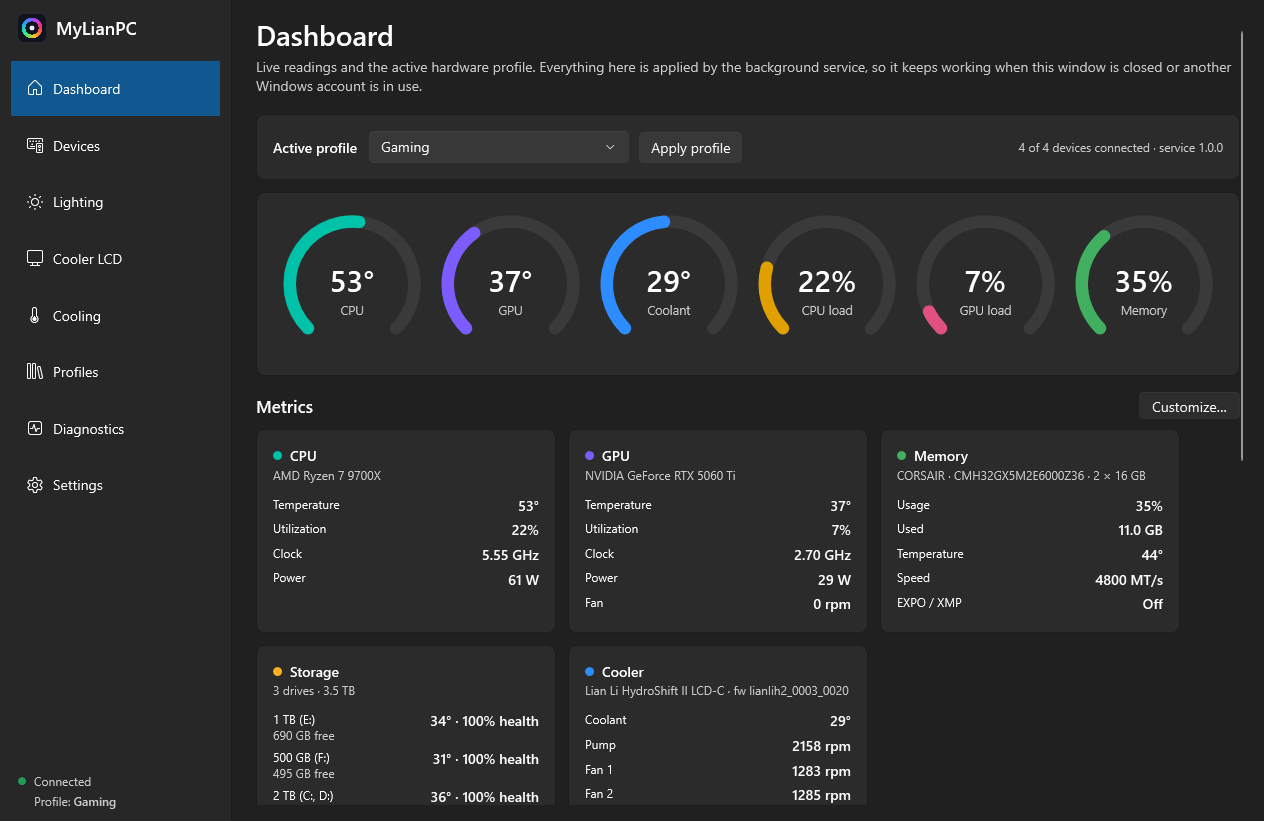
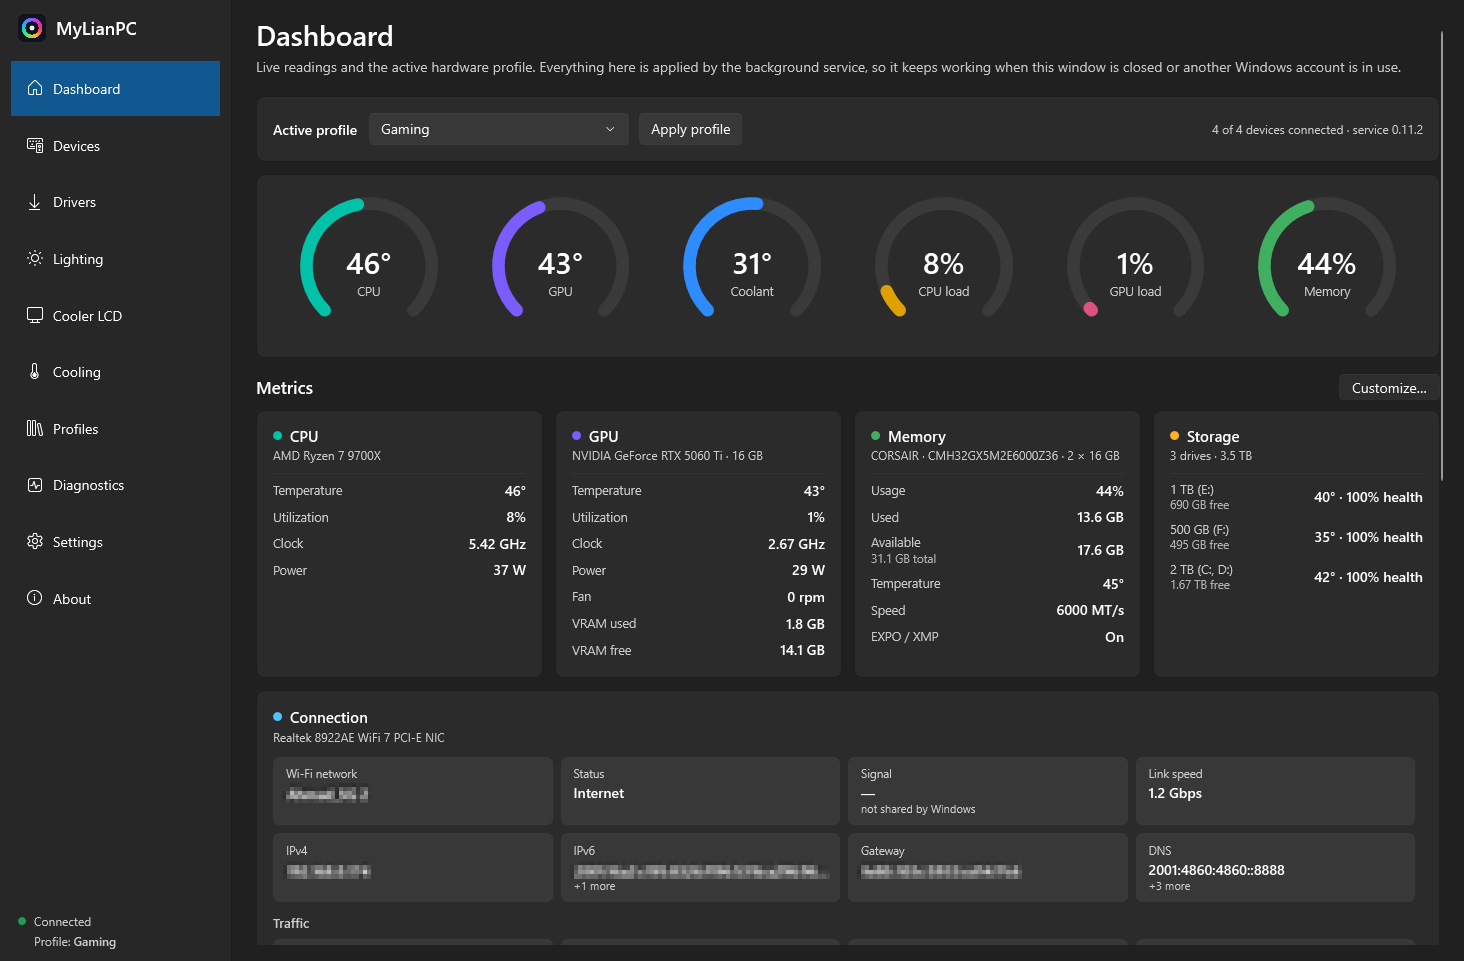
Refresh the README screenshots to 0.11.2 and drop the stale ones
- The README now shows only Dashboard and Lighting, both captured from
  the installed 0.11.2 build; the Cooler LCD and Cooling screenshots no
  longer matched the current UI and their files are removed.
- The dashboard shot includes the redesigned cards and the Connection
  card, with the Wi-Fi name and the IPv4, IPv6 and gateway values
  pixelated: the repository is public and those identify the network.

diff --git a/README.md b/README.md
@@ -19,11 +19,9 @@ real command, and anything the hardware cannot do is not offered.
 
 ## Screenshots
 
-| Dashboard — live readings | Lighting — one effect or per zone |
+| Dashboard — live readings, connection and traffic | Lighting — one effect or per zone |
 |---|---|
 | ![Dashboard](docs/images/dashboard.png) | ![Lighting](docs/images/lighting.png) |
-| **Cooler LCD — themes, gauges and image/GIF** | **Cooling — pump and radiator-fan curves** |
-| ![Cooler LCD](docs/images/lcd.png) | ![Cooling](docs/images/cooling.png) |
 
 ## What it is for
 
